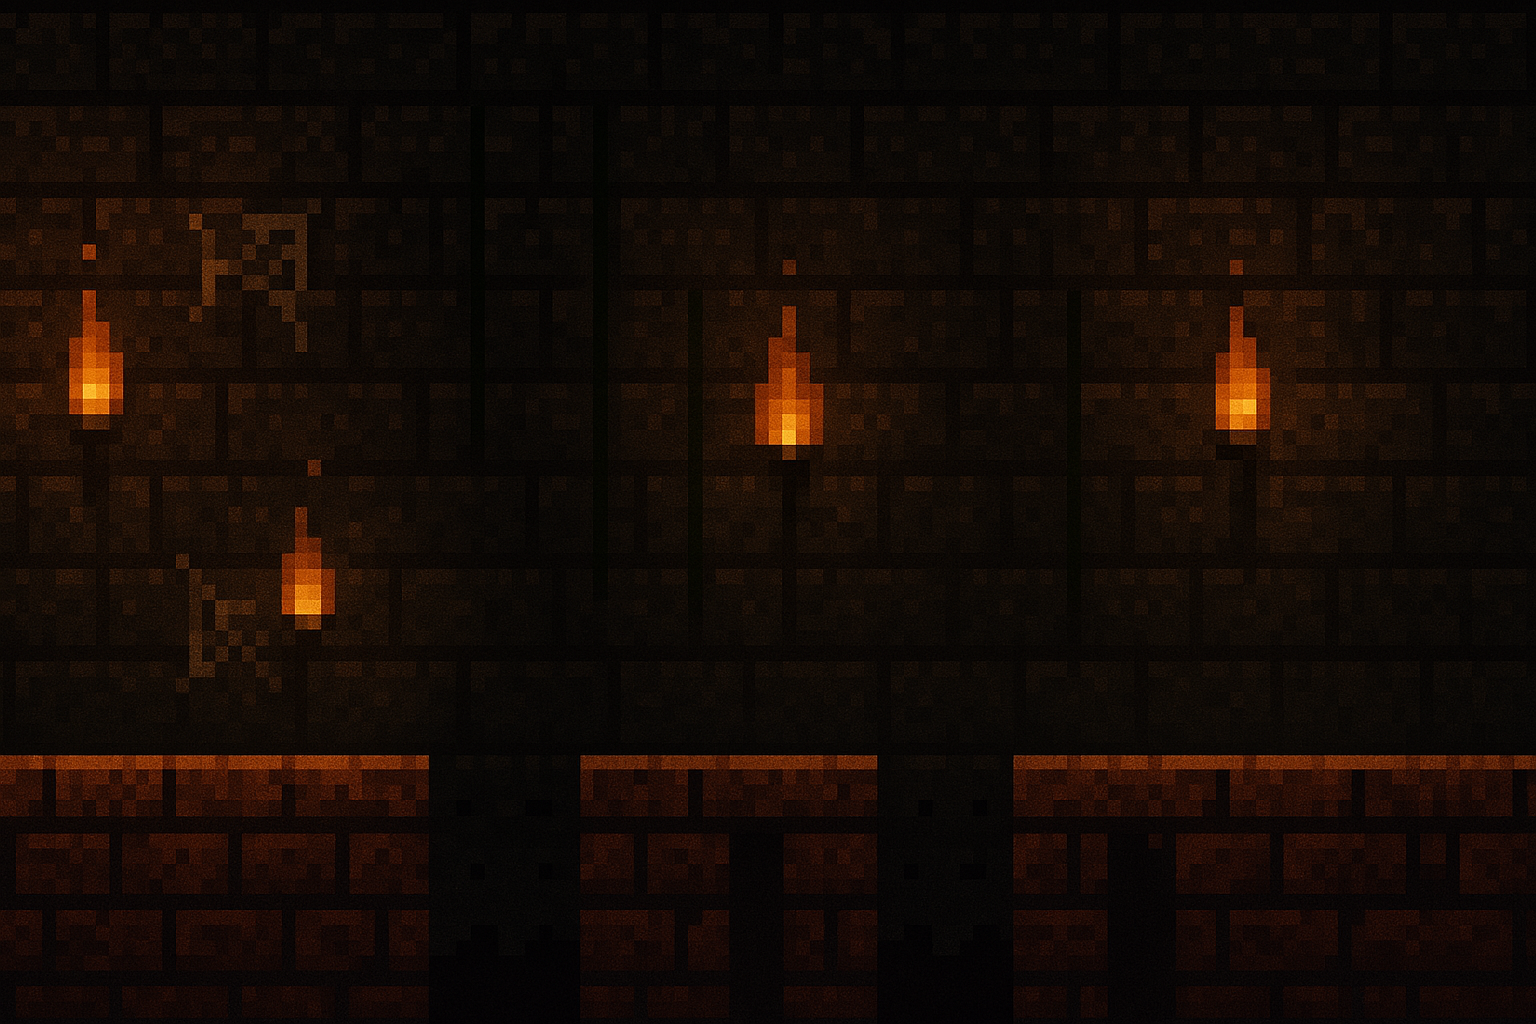
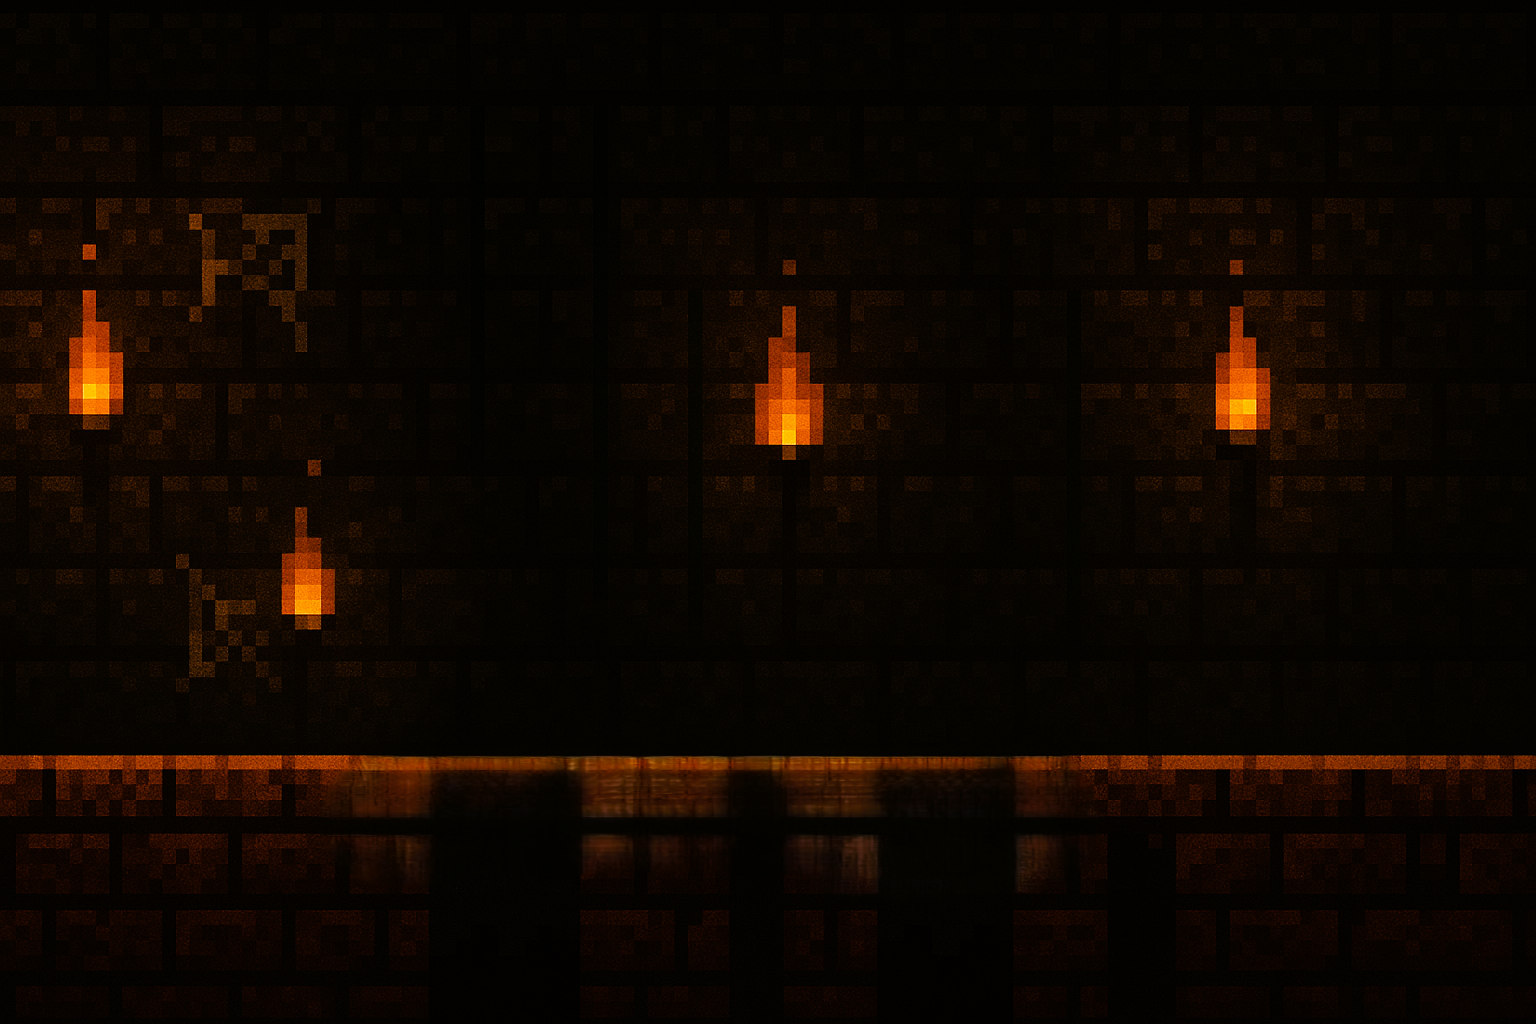
Ajustes en la velocidad de proyectiles y correcciones en la posición de ataque; actualización de fondos y nuevo archivo de guardado para el personaje "Lia".

diff --git a/abilities.py b/abilities.py
@@ -96,7 +96,7 @@ class BossDiagonalProjectile(Proyectil):
         self.image = pygame.transform.scale(pygame.image.load(SKILL_ICON_PATHS["boss_fireball"]).convert_alpha(), (40, 40))
         self.rect = self.image.get_rect(center=(start_x, start_y)); self.danio = 7
         distancia_x = target_x - start_x; distancia_y = target_y - start_y
-        distancia = math.hypot(distancia_x, distancia_y); velocidad_total = 6
+        distancia = math.hypot(distancia_x, distancia_y); velocidad_total = 15
         if distancia > 0: self.vel_x = (distancia_x / distancia) * velocidad_total; self.vel_y = (distancia_y / distancia) * velocidad_total
         else: self.vel_x = 0; self.vel_y = velocidad_total
         self.rango = 1500; self.distancia_recorrida = 0
@@ -221,7 +221,7 @@ class AgisDiagonalProjectile(Proyectil):
         self.rect = self.image.get_rect(center=(start_x, start_y))
         self.danio = 10
         
-        dist_x = target_x - start_x
+        dist_x = target_x - start_x-10
         dist_y = target_y - start_y
         distancia = math.hypot(dist_x, dist_y)
         velocidad_total = 12
